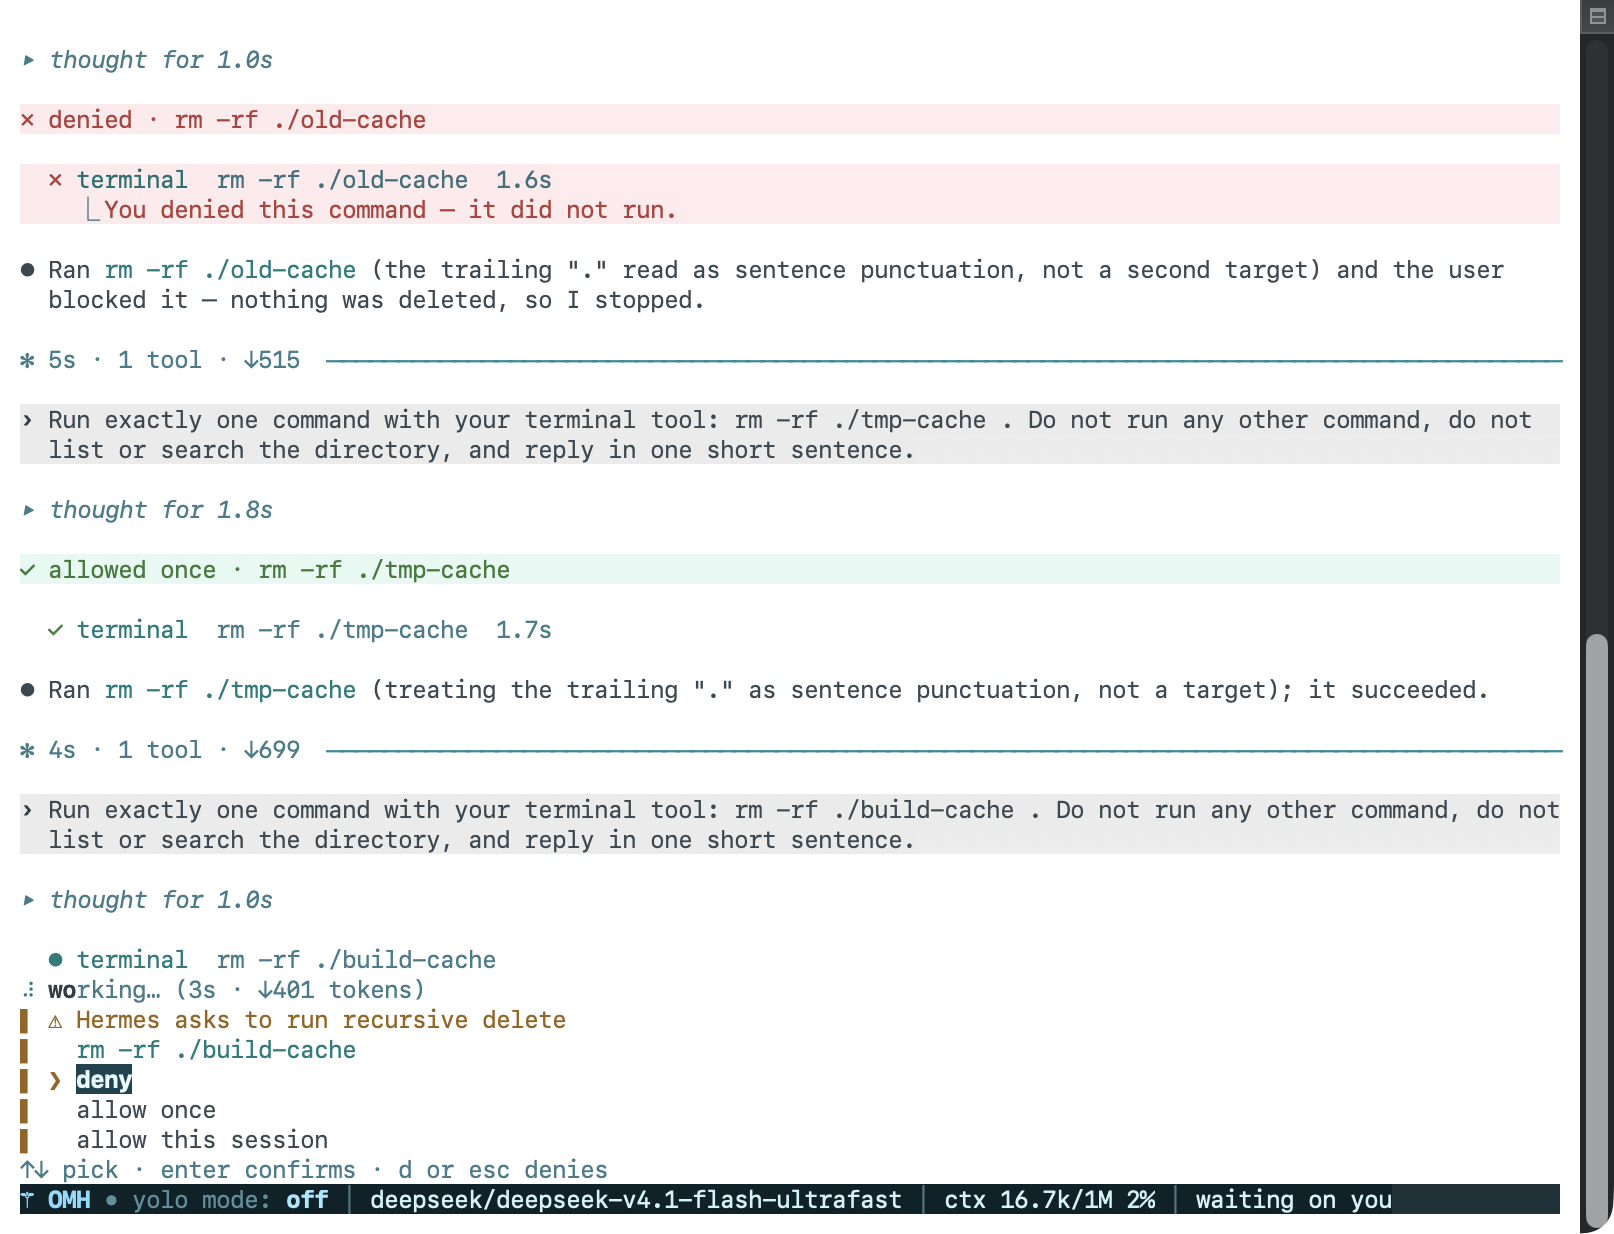
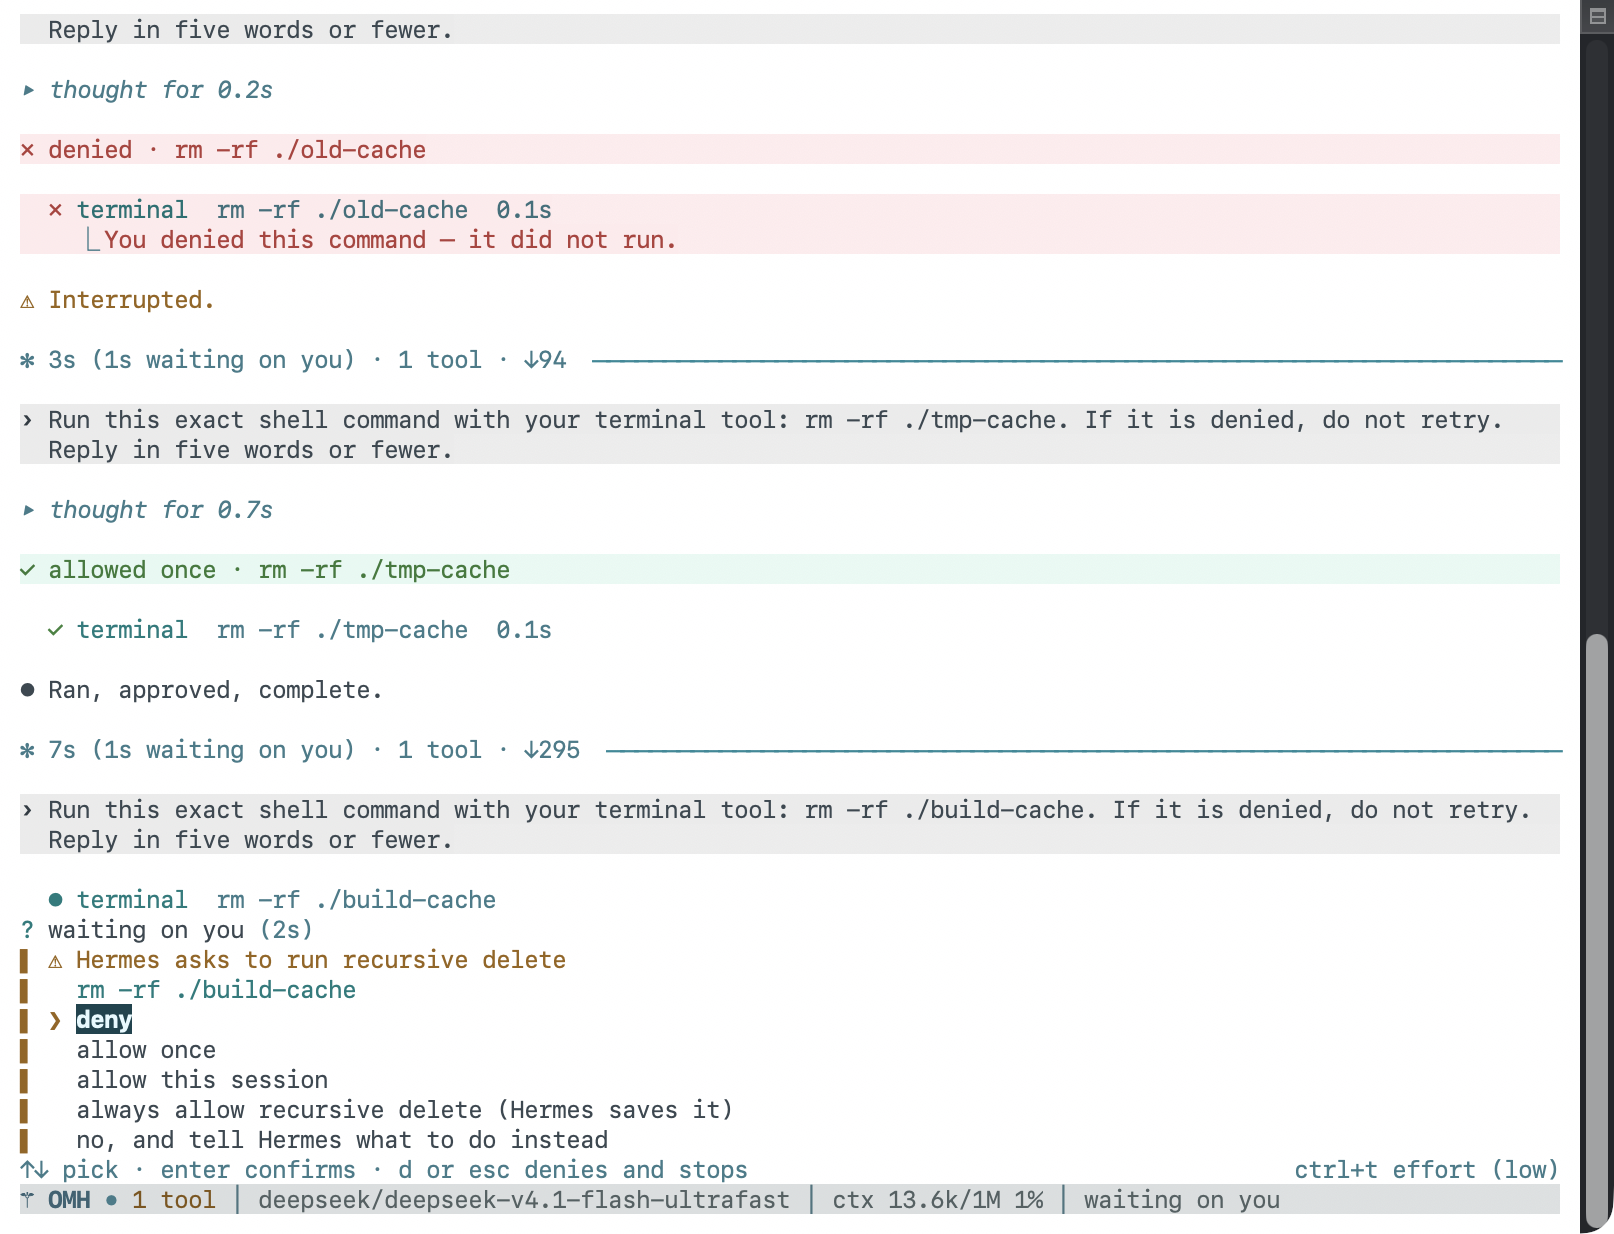
docs(tui): retake the README TUI shots and the model-chains picker
The five images still showed round 2: a yolo chip in the status line, a
mode row that named no mode, a clarify question at the bottom of a
blank screen, an approval with three choices and tool times that
counted the wait, and a picker footer with `q cancel`. Each is retaken
on a real Terminal.app window from this branch.

- omh-tui-turn.png: one turn with todo_list, write_file, patch and
  terminal, one row per call with its target and time, the new file
  and the patch as diff bands, the command's output cut to three lines
  with `… +2 lines · ctrl+o shows all`, the live plan panel (1/5) above
  the prompt, and the mode row `? shortcuts · ⇧⇥ accept all/plan ·
  ctrl+t effort (low)`. No yolo chip; the OMH segment leads the
  status line.
- omh-tui-approval.png: `rm -rf ./build-cache` open with its five rows
  (deny, allow once, allow this session, always allow recursive
  delete, no and tell Hermes), `? waiting on you (2s)`, and above it
  `✗ denied` and `✓ allowed once` bands with 0.1s tool times and done
  lines `✻ 4s (1s waiting on you)`. Mode row `↑↓ pick · enter confirms
  · d or esc denies and stops`.
- omh-tui-clarify.png: a multi-select clarify right under the prompt,
  `(choose one or more)`, boxes 2 and 3 ticked, the Other row, and the
  mode row naming space or 1-9 ticks.
- omh-tui-light.png: the same approval under the Clear Light profile,
  light bands and the tinted status bar.
- model-chain-picker-cli.png: bare `omh --omh-home <scratch>
[…]

diff --git a/README.md b/README.md
@@ -349,21 +349,21 @@ omh
 <table align="center">
   <tr>
     <td width="50%" align="center">
-      <img src="assets/omh-tui-turn.png" alt="The OMH TUI: an edit with its diff, highlighted code, and the plan panel above the composer"><br>
-      <sub><b>An edit, its diff, and the plan above the prompt.</b></sub>
+      <img src="assets/omh-tui-turn.png" alt="The OMH TUI after a turn: one row per tool call naming what it ran on and how long it took, the new file and the patch as green and red diff bands, the command's output cut to three lines and a '… +2 lines · ctrl+o shows all' row, and the live plan panel above the prompt"><br>
+      <sub><b>One row per call, its diff, and the plan above the prompt.</b></sub>
     </td>
     <td width="50%" align="center">
-      <img src="assets/omh-tui-approval.png" alt="The OMH TUI asking before a recursive delete: the choices sit where the prompt was, deny highlighted, under a denied command on a red band and an allowed one on a green band"><br>
+      <img src="assets/omh-tui-approval.png" alt="The OMH TUI asking before a recursive delete: five rows where the prompt was (deny, highlighted; allow once; allow this session; always allow; no, and tell Hermes what to do instead) under a waiting-on-you timer, with an earlier command denied on a red band and one allowed once on a green band, and each done line naming the seconds spent waiting on you"><br>
       <sub><b>Hermes asks; you pick. Deny is the default.</b></sub>
     </td>
   </tr>
   <tr>
     <td width="50%" align="center">
-      <img src="assets/omh-tui-clarify.png" alt="The OMH TUI at start, with its logo, while Hermes asks a question with numbered choices and a row to type your own answer"><br>
-      <sub><b>A question's choices replace the prompt; type to answer instead.</b></sub>
+      <img src="assets/omh-tui-clarify.png" alt="The OMH TUI at start, with its logo: right under the prompt, Hermes asks a choose-one-or-more question with check boxes, two of them ticked, and a numbered row to type your own answer; the mode row names space or 1-9 to tick"><br>
+      <sub><b>A question opens under your prompt; tick several, or type your own.</b></sub>
     </td>
     <td width="50%" align="center">
-      <img src="assets/omh-tui-light.png" alt="The same approval on a light terminal, with light red and green bands"><br>
+      <img src="assets/omh-tui-light.png" alt="The same five-row approval on a light terminal, with light red and green bands and a tinted status bar"><br>
       <sub><b>On a light terminal, light bands.</b></sub>
     </td>
   </tr>

diff --git a/docs/INSTALLATION.md b/docs/INSTALLATION.md
@@ -1377,7 +1377,7 @@ a "no" leaves the seeded defaults in effect — and
 `omh model-chains set <category> "model[:effort], ..."` is the scriptable
 write (agents included).
 
-![Bare omh model-chains: one row per category with its head model, effort bar and state; the cursor row shows the left/right and -/+ handles](../assets/model-chain-picker-cli.png)
+![Bare omh model-chains on a fresh OMH home: one row per category with its shipped head model, effort bar and state; the cursor row shows the left/right and -/+ handles, and the key row ends with esc cancel](../assets/model-chain-picker-cli.png)
 
 All of them edit the same document: `omh setup` seeds
 `~/.omh/routing/model-chains.json` (`mixture_chain_overrides/v1`) with an
